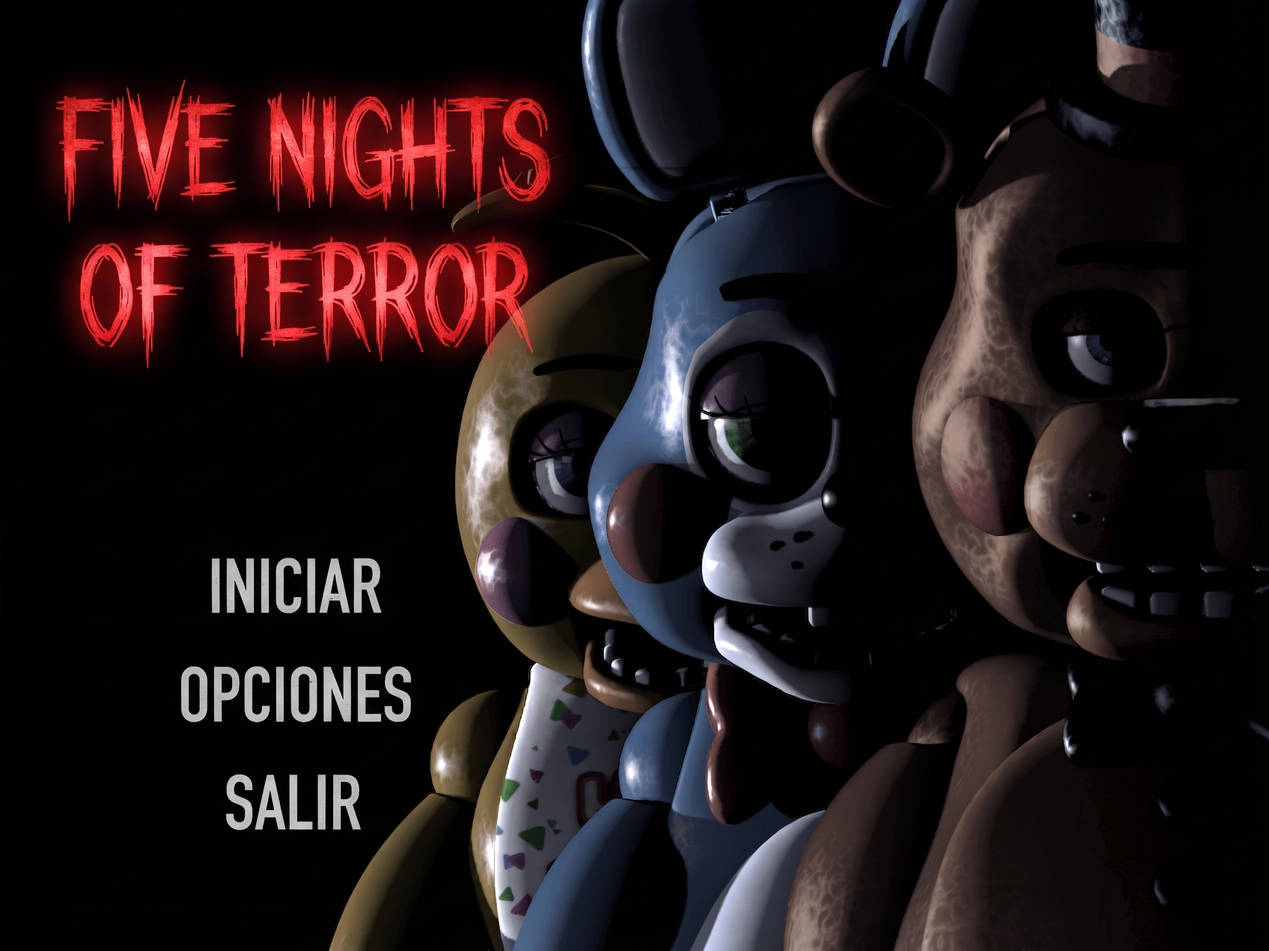
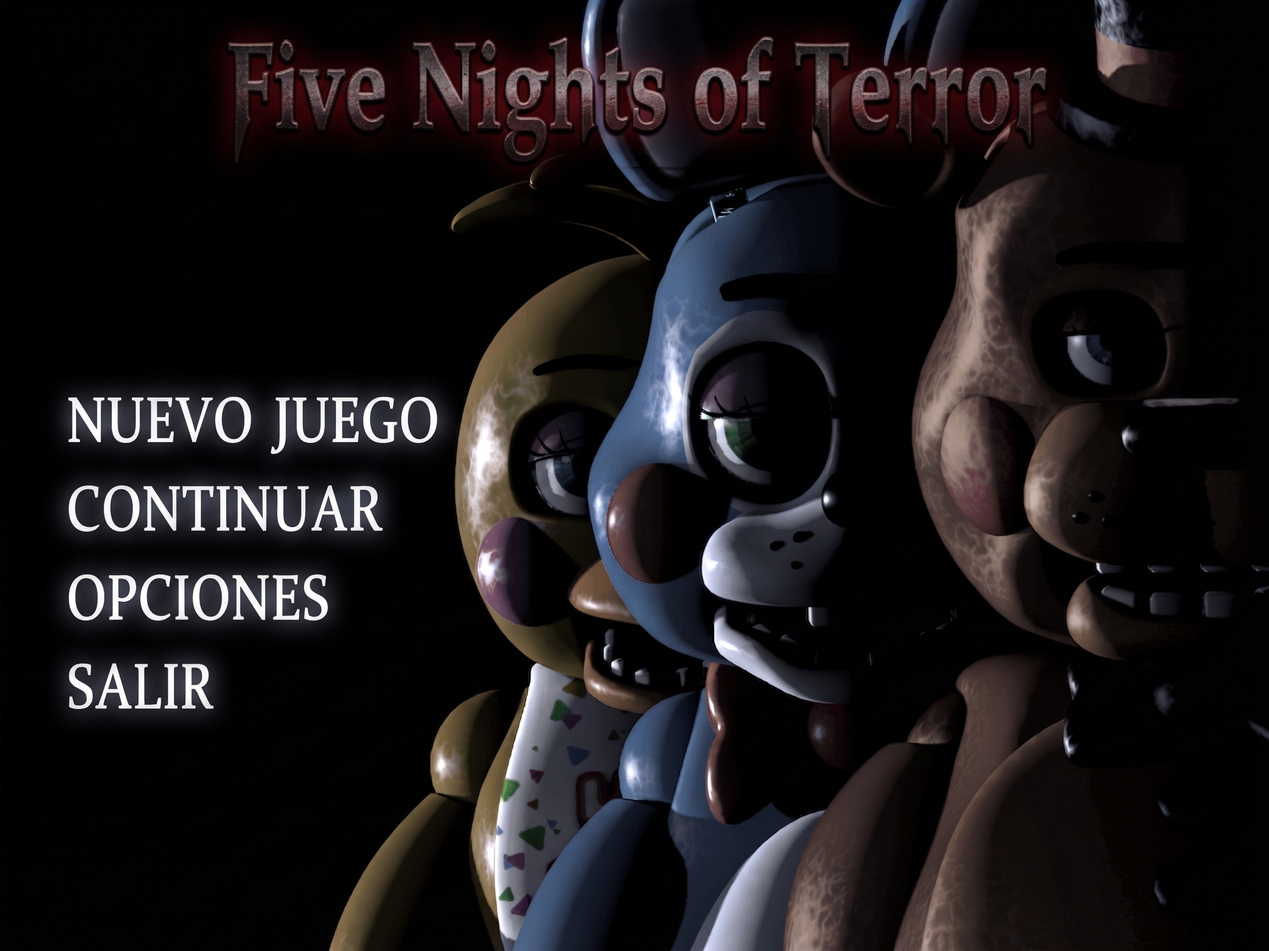
feat: menú Nuevo Juego/Continuar y flujo de reconexión unificado
Bump de versión a 0.8.0+9 (SemVer: MINOR por funcionalidad nueva).

- Menú principal con 4 opciones (Nuevo Juego/Continuar/Opciones/Salir),
  calibradas sobre el fondo actualizado con las nuevas palabras.
- ConnectionProvider.connect() acepta un modo ('nuevo'/'continuar') que
  viaja hasta el servidor en el mensaje connect.
- game_over_screen.dart corregido: "Reintentar" ahora reconecta de
  verdad (antes pusheaba directo a GameScreen sin tocar el socket,
  dejando al jugador esperando mensajes que nunca llegaban).
- Eliminado código muerto (GameProvider.reiniciarNoche,
  ConnectionProvider.reiniciarNoche) tras el fix de arriba.

Changed region(s): [[0.031, 0.0312, 0.836, 0.375], [0.031, 0.4062, 0.3715, 0.7812], [0.1548, 0.8125, 0.3096, 0.875]]

diff --git a/flutter/lib/providers/connection_provider.dart b/flutter/lib/providers/connection_provider.dart
@@ -14,6 +14,7 @@ class ConnectionProvider extends ChangeNotifier {
 
   ConnectionState _state = ConnectionState.idle;
   int _reconnectAttempts = 0;
+  String _ultimoModo = 'nuevo';
 
   ConnectionState get state => _state;
   int get reconnectAttempts => _reconnectAttempts;
@@ -31,17 +32,12 @@ class ConnectionProvider extends ChangeNotifier {
   MockServerService? get mockService =>
       ServerConfig.useMock ? _mockService : null;
 
-  /// Reinicia el reloj de la noche actual (misma noche, tiempo en 0) sin
-  /// desconectar. Se usa cuando el jugador falla y reintenta la misma
-  /// noche. No hace nada contra el backend real hasta que implemente su
-  /// propia lógica de reinicio de noche (ver spec de protocolo propuesto).
-  void reiniciarNoche() {
-    if (ServerConfig.useMock) {
-      _mockService.reiniciarRelojDeNoche();
-    }
-  }
-
-  void connect() {
+  /// [modo] es 'nuevo' (empezar desde la noche 1, se guarda así en el
+  /// servidor) o 'continuar' (retomar la última noche alcanzada según
+  /// la base de datos del servidor). Se recuerda para que los reintentos
+  /// automáticos de reconexión (`_handleDisconnect`) usen el mismo modo.
+  void connect({String modo = 'nuevo'}) {
+    _ultimoModo = modo;
     _state = ConnectionState.connecting;
     notifyListeners();
 
@@ -60,6 +56,7 @@ class ConnectionProvider extends ChangeNotifier {
       'device': 'tablet',
       'player_id': PlayerIdentity.playerId,
       'app_version': '0.1.0',
+      'modo': _ultimoModo,
       'timestamp': DateTime.now().millisecondsSinceEpoch,
     });
     _state = ConnectionState.connected;
@@ -83,7 +80,10 @@ class ConnectionProvider extends ChangeNotifier {
     _reconnectAttempts++;
     notifyListeners();
 
-    Future<void>.delayed(AppConstants.reconnectDelay, connect);
+    Future<void>.delayed(
+      AppConstants.reconnectDelay,
+      () => connect(modo: _ultimoModo),
+    );
   }
 
   void disconnect() {

diff --git a/flutter/lib/providers/game_provider.dart b/flutter/lib/providers/game_provider.dart
@@ -61,19 +61,6 @@ class GameProvider extends ChangeNotifier {
           isGameOver = true;
         }
         break;
-      case 'reconnect_success':
-        final Map<String, dynamic> datosSesion =
-            message['session_data'] as Map<String, dynamic>? ?? {};
-        if (datosSesion['score'] != null) {
-          session.score = datosSesion['score'] as int;
-        }
-        if (datosSesion['current_task'] != null) {
-          session.currentTask = Task.fromJson(
-            datosSesion['current_task'] as Map<String, dynamic>,
-          );
-        }
-        appLogger.i('Reconexión exitosa, sesión restaurada: $datosSesion');
-        break;
       default:
         appLogger.w('Unhandled message type: $type');
     }
@@ -130,22 +117,6 @@ class GameProvider extends ChangeNotifier {
     lastAttack = null;
     isGameOver = false;
     esVictoriaFinal = false;
-    ultimaNocheDeGameOver = null;
-    notifyListeners();
-  }
-
-  /// Reinicia riesgo/tareas/tarea actual para reintentar la MISMA noche,
-  /// sin tocar `nocheActual` ni `horaEnJuego`. Se usa cuando el jugador
-  /// sufre un ataque (fatal) a mitad de la noche. La lista de tareas
-  /// pendientes NO se reinicia — las tareas de la noche siguen vigentes
-  /// a través de un reintento por ataque.
-  void reiniciarNoche() {
-    session.riesgo = 0;
-    session.tasksCompleted = 0;
-    session.tasksFailed = 0;
-    session.currentTask = null;
-    lastAttack = null;
-    isGameOver = false;
     ultimaNocheDeGameOver = null;
     notifyListeners();
   }

diff --git a/flutter/lib/screens/menu_principal_screen.dart b/flutter/lib/screens/menu_principal_screen.dart
@@ -31,9 +31,10 @@ class MenuPrincipalScreen extends StatelessWidget {
   static const double _anchoZona = 0.30;
   static const double _altoZona = 0.07;
 
-  static const double _yIniciar = 0.653;
-  static const double _yOpciones = 0.727;
-  static const double _ySalir = 0.800;
+  static const double _yNuevoJuego = 0.430;
+  static const double _yContinuar = 0.530;
+  static const double _yOpciones = 0.627;
+  static const double _ySalir = 0.723;
 
   @override
   Widget build(BuildContext context) {
@@ -55,8 +56,13 @@ class MenuPrincipalScreen extends StatelessWidget {
               ),
               _zonaTactil(
                 rectangulo: rectangulo,
-                yRelativo: _yIniciar,
-                onTap: () => _alIniciar(context),
+                yRelativo: _yNuevoJuego,
+                onTap: () => _alIniciar(context, modo: 'nuevo'),
+              ),
+              _zonaTactil(
+                rectangulo: rectangulo,
+                yRelativo: _yContinuar,
+                onTap: () => _alIniciar(context, modo: 'continuar'),
               ),
               _zonaTactil(
                 rectangulo: rectangulo,
@@ -114,9 +120,9 @@ class MenuPrincipalScreen extends StatelessWidget {
     );
   }
 
-  void _alIniciar(BuildContext context) {
+  void _alIniciar(BuildContext context, {required String modo}) {
     Navigator.of(context).pushReplacement(
-      MaterialPageRoute<void>(builder: (_) => const SplashScreen()),
+      MaterialPageRoute<void>(builder: (_) => SplashScreen(modo: modo)),
     );
   }
 

diff --git a/flutter/lib/screens/game_over_screen.dart b/flutter/lib/screens/game_over_screen.dart
@@ -2,7 +2,7 @@ import 'package:flutter/material.dart';
 import 'package:provider/provider.dart';
 import '../providers/game_provider.dart';
 import '../providers/connection_provider.dart';
-import 'game_screen.dart';
+import 'splash_screen.dart';
 
 class GameOverScreen extends StatelessWidget {
   const GameOverScreen({super.key});
@@ -29,10 +29,12 @@ class GameOverScreen extends StatelessWidget {
             const SizedBox(height: 24),
             ElevatedButton(
               onPressed: () {
-                context.read<GameProvider>().reiniciarNoche();
-                context.read<ConnectionProvider>().reiniciarNoche();
+                context.read<GameProvider>().reset();
+                context.read<ConnectionProvider>().disconnect();
                 Navigator.of(context).pushAndRemoveUntil(
-                  MaterialPageRoute<void>(builder: (_) => const GameScreen()),
+                  MaterialPageRoute<void>(
+                    builder: (_) => const SplashScreen(modo: 'continuar'),
+                  ),
                   (route) => false,
                 );
               },

diff --git a/flutter/lib/screens/splash_screen.dart b/flutter/lib/screens/splash_screen.dart
@@ -4,7 +4,9 @@ import '../providers/connection_provider.dart';
 import 'game_screen.dart';
 
 class SplashScreen extends StatefulWidget {
-  const SplashScreen({super.key});
+  final String modo;
+
+  const SplashScreen({super.key, this.modo = 'nuevo'});
 
   @override
   State<SplashScreen> createState() => _SplashScreenState();
@@ -15,7 +17,7 @@ class _SplashScreenState extends State<SplashScreen> {
   void initState() {
     super.initState();
     WidgetsBinding.instance.addPostFrameCallback((_) {
-      context.read<ConnectionProvider>().connect();
+      context.read<ConnectionProvider>().connect(modo: widget.modo);
     });
   }
 
